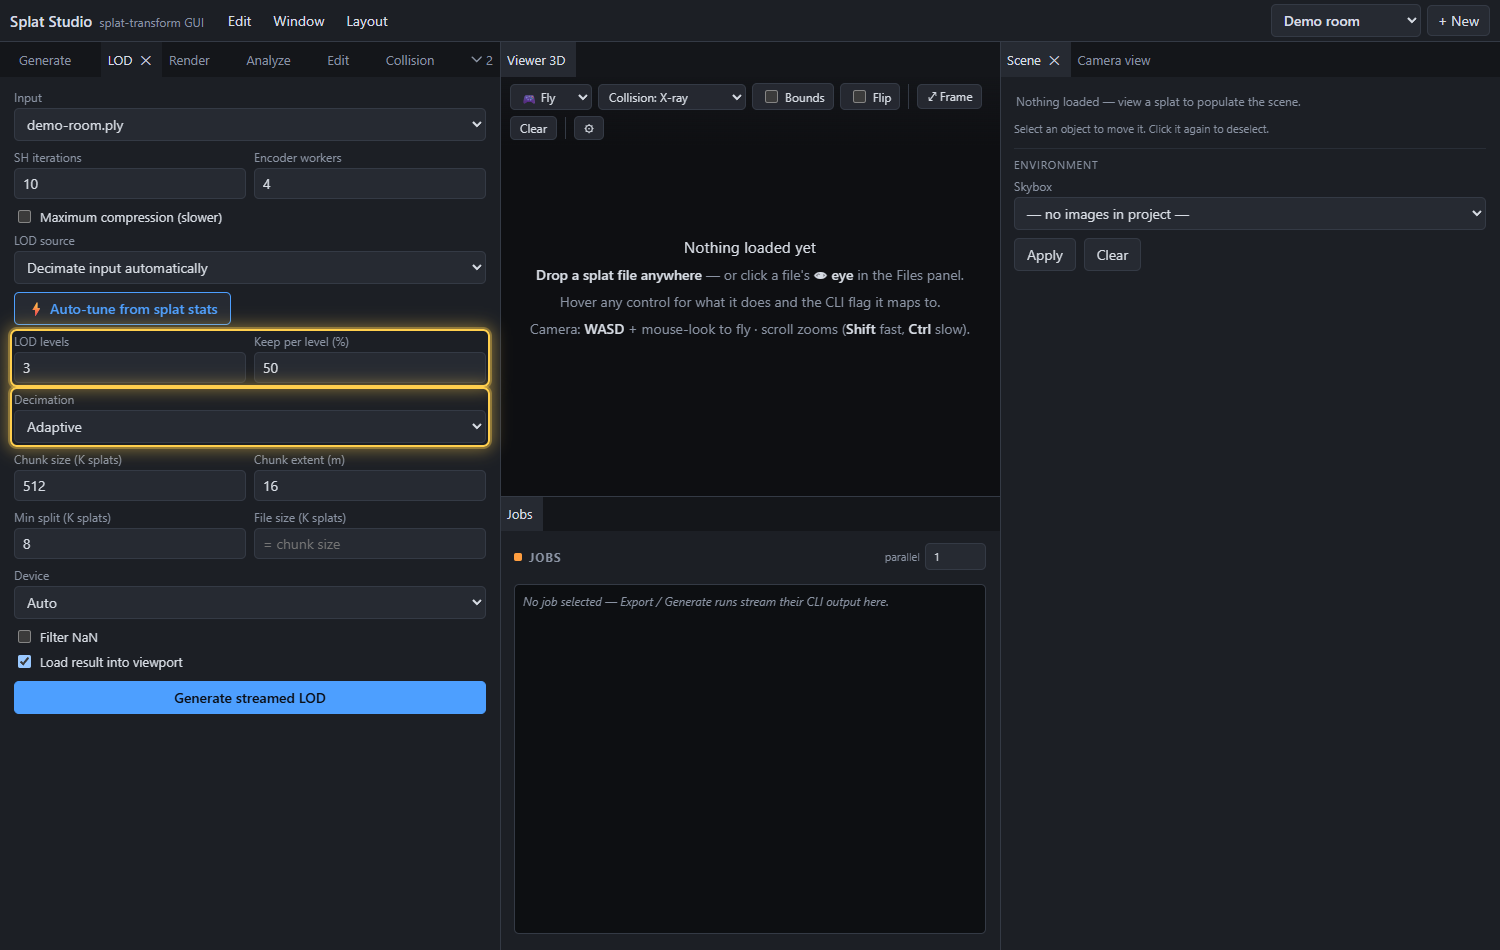
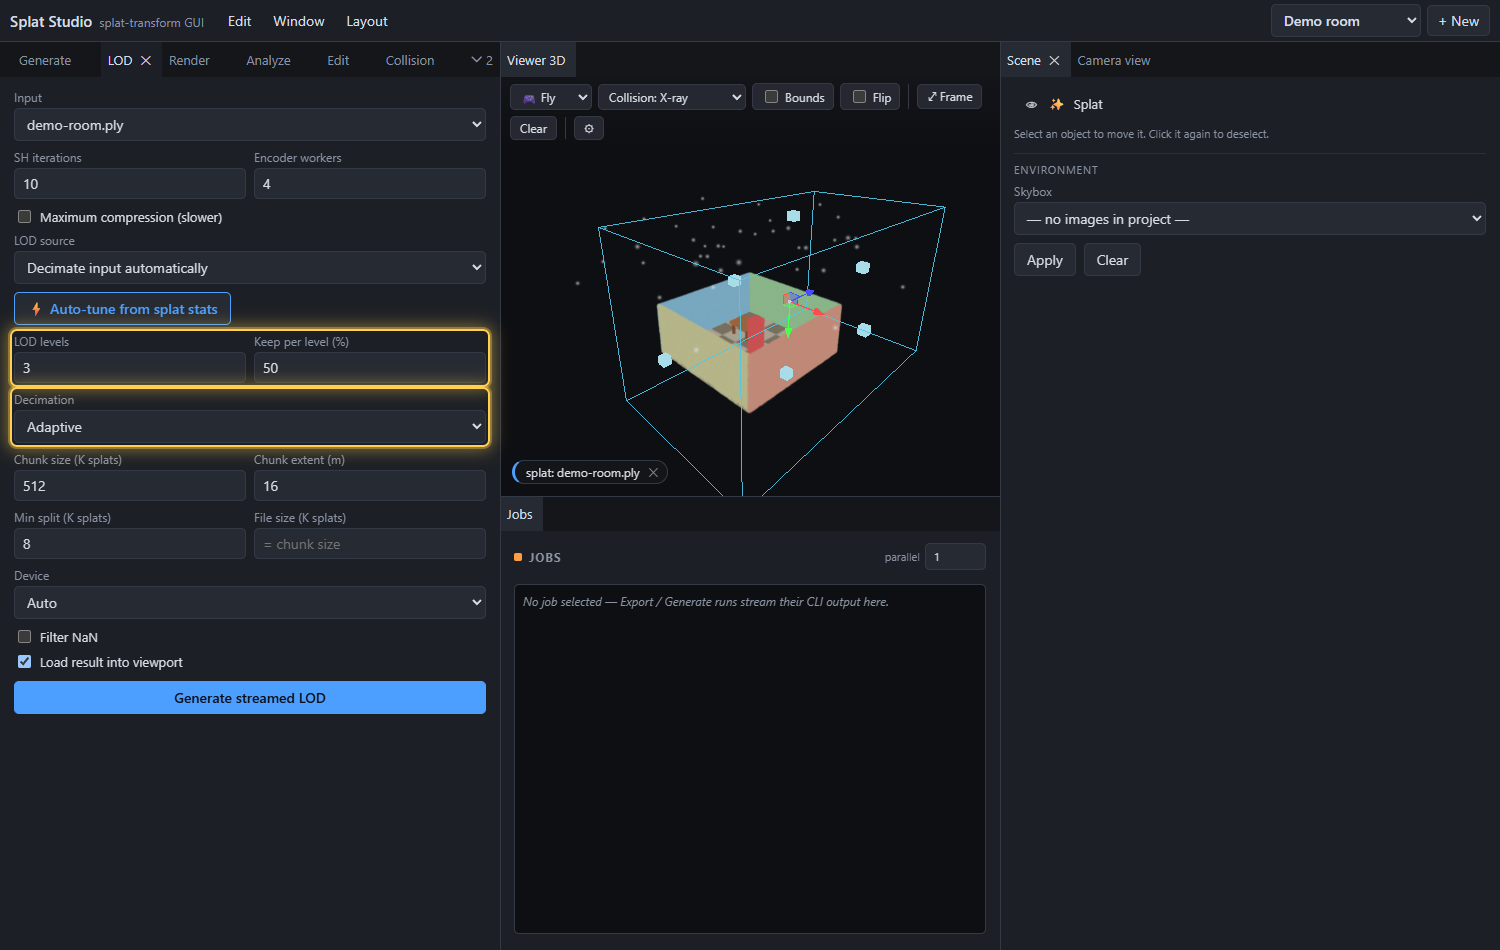
chore: bump playcanvas to 2.24.0; fix capture harness splat load
The docs capture harness looked for a "view" text button that no longer
exists, so canonical screenshots never loaded the demo splat. Click
the .file-eye button instead and re-capture.

Changed region(s): [[0.368, 0.2137, 0.644, 0.4274], [0.6747, 0.0916, 0.8587, 0.3053], [0.3373, 0.4884, 0.4293, 0.5189]]

diff --git a/README.md b/README.md
@@ -7,7 +7,7 @@ all in a dockable, Unity/Unreal-style tab editor you can rearrange and save per
 workspace.
 
 <!-- versions: the "Built with" line below is kept in sync by the weekly dependency-update routine -->
-**Built with [PlayCanvas](https://github.com/playcanvas/engine) `2.23.3` · [@playcanvas/splat-transform](https://github.com/playcanvas/splat-transform) `3.10.3`**
+**Built with [PlayCanvas](https://github.com/playcanvas/engine) `2.24.0` · [@playcanvas/splat-transform](https://github.com/playcanvas/splat-transform) `3.10.3`**
 
 [![License: Apache 2.0](https://img.shields.io/badge/License-Apache_2.0-blue.svg)](LICENSE)
 ![Platform: Windows](https://img.shields.io/badge/platform-Windows-blue.svg)
